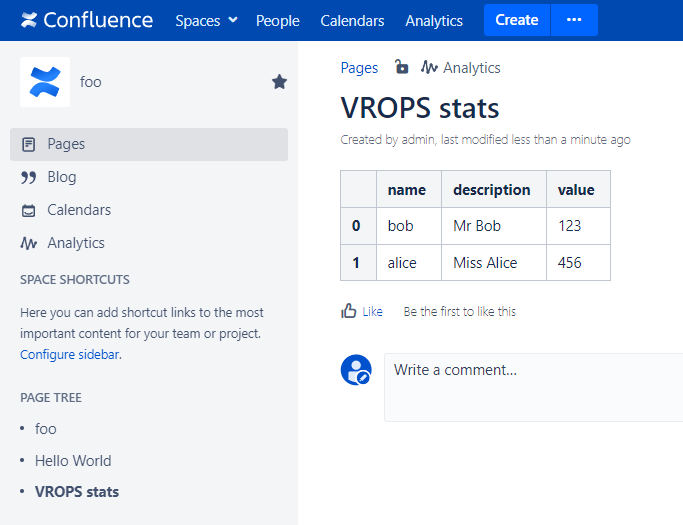
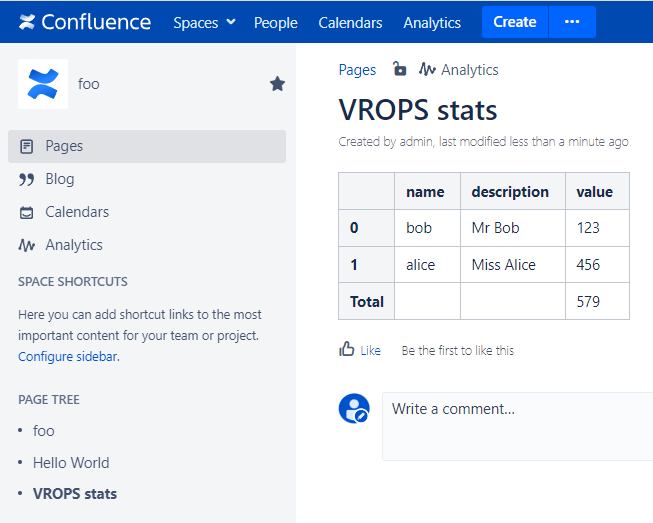
update, with total

diff --git a/confluence/update-page.py b/confluence/update-page.py
@@ -8,6 +8,11 @@ PAGE = 'VROPS stats'
 
 a = pd.read_csv('input.csv')
 
+# Add a totals row
+a.loc['Total']=a.sum()
+a.loc[a.index[-1], 'name'] = ''
+a.loc[a.index[-1], 'description'] = ''
+
 confluence = Confluence(url='http://localhost:8090', 
                         username='admin',
                         password='abc123')

diff --git a/confluence/README.md b/confluence/README.md
@@ -310,7 +310,6 @@ $ cat input.csv
 name,description,value
 bob,Mr Bob,123
 alice,Miss Alice,456
-$ cat update-page.py
 #!/usr/bin/python3
 
 from atlassian import Confluence
@@ -320,6 +319,11 @@ SPACE = 'FOO'
 PAGE = 'VROPS stats'
 
 a = pd.read_csv('input.csv')
+
+# Add a totals row
+a.loc['Total']=a.sum()
+a.loc[a.index[-1], 'name'] = ''
+a.loc[a.index[-1], 'description'] = ''
 
 confluence = Confluence(url='http://localhost:8090',
                         username='admin',
